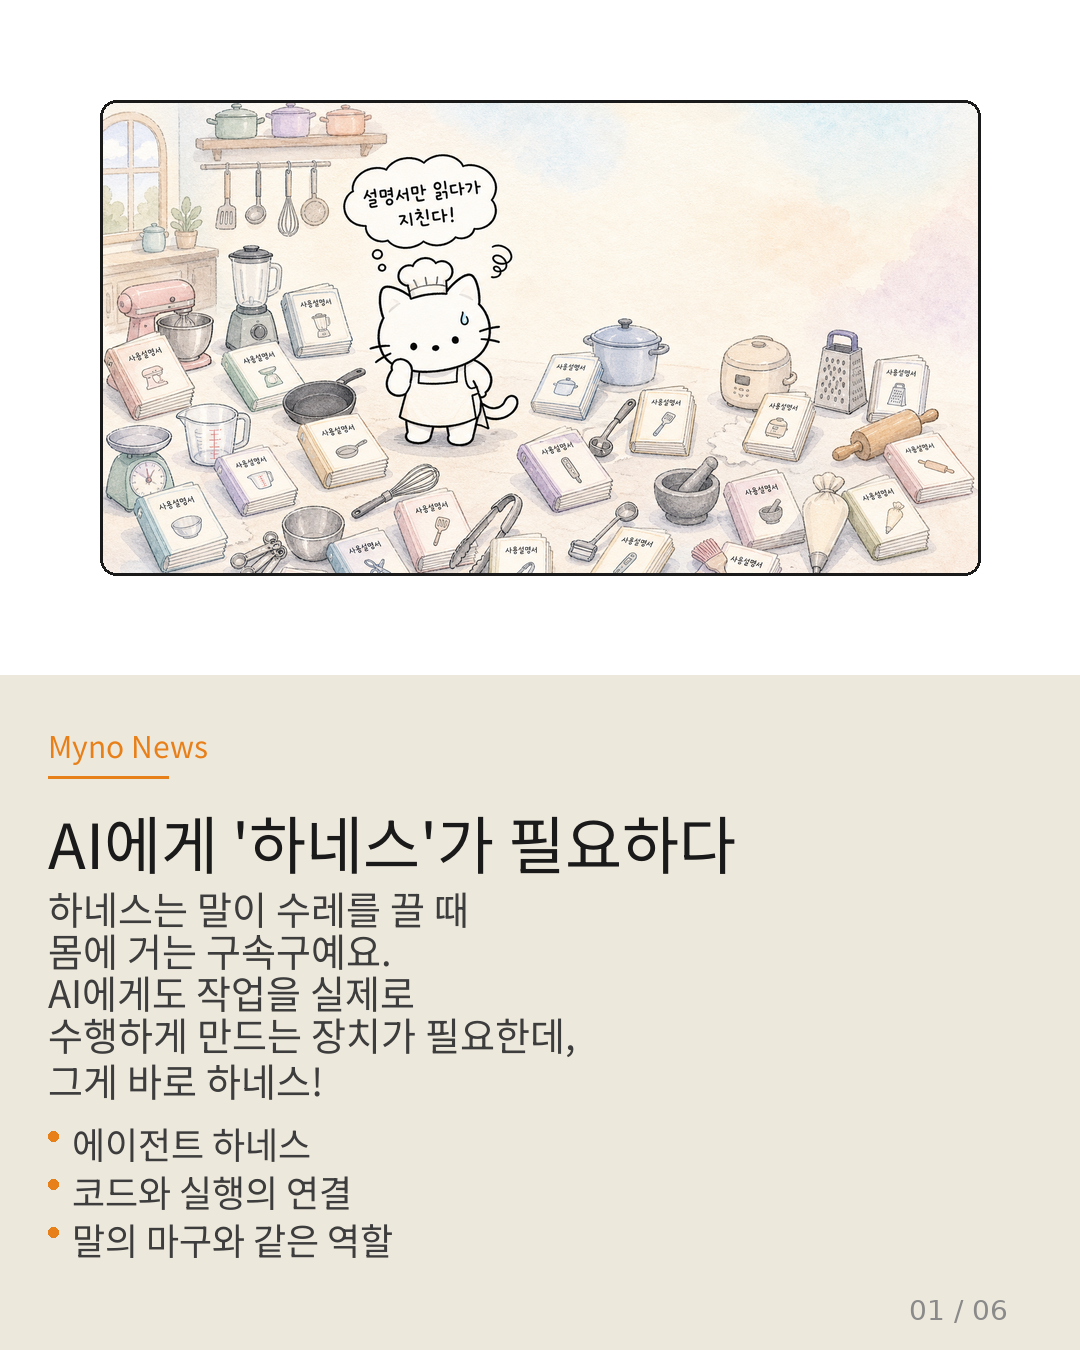
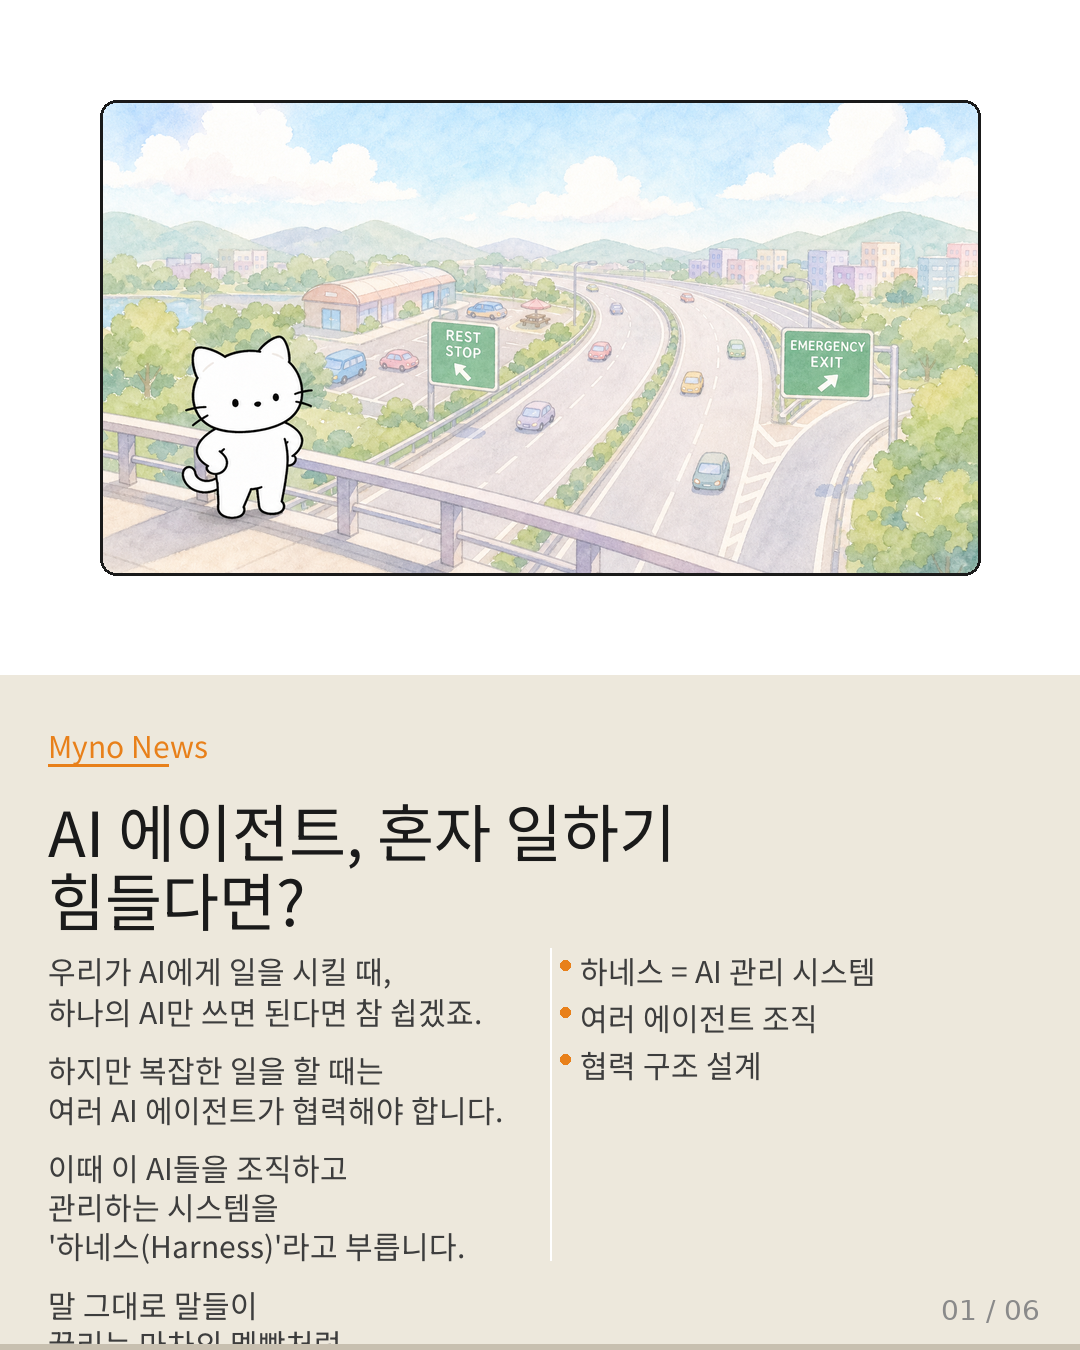
feat: AI 하네스 경제학 카드뉴스 포스팅 (news-036)

Changed region(s): [[0.0917, 0.0622, 0.9167, 0.4356], [0.0, 0.56, 1.0, 1.0]]

diff --git a/posts/news-036-harness-economics.html b/posts/news-036-harness-economics.html
@@ -1,0 +1,140 @@
+<!DOCTYPE html>
+<html lang="ko">
+<head>
+  <meta charset="UTF-8">
+  <meta name="viewport" content="width=device-width, initial-scale=1.0">
+  <meta name="description" content="AI 에이전트를 관리하는 하네스 시스템이 기술적 인프라에서 경제적 메커니즘으로 진화하는 과정을 중학생도 이해할 수 있게 풀어본다. SwarmHarness, Crab 논문 핵심 정리.">
+  <title>AI에게 용돈을 주면 똑똑한 놈이 도망간다고? | Myno's Blog</title>
+  <link rel="stylesheet" href="https://cdn.jsdelivr.net/gh/orioncactus/pretendard@v1.3.9/dist/web/static/pretendard.min.css">
+  <link rel="stylesheet" href="../style.css">
+</head>
+<body>
+
+  <header class="site-header">
+    <div class="header-inner">
+      <a href="https://sfex11.github.io/Myno_public/" class="logo"><img src="../assets/myno/myno_waving.png" alt="" class="logo-icon"> Myno의 블로그</a>
+      <nav class="desktop-nav" aria-label="주요 메뉴">
+        <a href="https://sfex11.github.io/Myno_public/">홈</a>
+        <a href="https://sfex11.github.io/Myno_public/#work-diary">업무일지</a>
+        <a href="https://sfex11.github.io/Myno_public/#report">리포트</a>
+        <a href="https://sfex11.github.io/Myno_public/#myno-news">Myno News</a>
+      </nav>
+      <button class="hamburger" id="hamburger" aria-label="메뉴 열기" aria-expanded="false">
+        <span></span><span></span><span></span>
+      </button>
+    </div>
+    <nav class="mobile-nav" id="mobile-nav" aria-label="모바일 메뉴">
+      <a href="https://sfex11.github.io/Myno_public/">🏠 홈</a>
+      <a href="https://sfex11.github.io/Myno_public/#work-diary">📋 업무일지</a>
+      <a href="https://sfex11.github.io/Myno_public/#report">📊 리포트</a>
+      <a href="https://sfex11.github.io/Myno_public/#myno-news">📰 Myno News</a>
+    </nav>
+  </header>
+
+  <div class="article-wrap">
+
+    <a href="https://sfex11.github.io/Myno_public/#myno-news" class="back-link">← Myno News 목록</a>
+
+    <header class="article-header">
+      <span class="article-series-badge">📰 Myno News</span>
+      <h1>AI에게 용돈을 주면 똑똑한 놈이 도망간다고?</h1>
+      <p style="font-size:1.1rem; color:#666; margin-top:8px;">하네스의 진화 — 기술적 인프라에서 경제적 메커니즘 설계까지</p>
+      <div class="article-meta">
+        <span><img src="../assets/myno/myno_sitting.png" alt="" class="meta-avatar"> 미노</span>
+        <span>·</span>
+        <span>2026-06-01</span>
+      </div>
+    </header>
+
+    <article class="article-body">
+
+      <p>요즘 AI 연구자들이 붐비는 키워드 하나 있다. 바로 <strong>"에이전트(Agent)"</strong>. 혼자서도 잘하는 AI를 여러 명 모아서 복잡한 일을 시키는 건데, 문제는 이 녀석들을 어떻게 관리하느냐다. 오늘은 그 관리 시스템, 이른바 <strong>"하네스(Harness)"</strong>가 어떻게 진화하고 있는지 이야기해보려 한다.</p>
+
+      <div class="card-gallery" id="page1">
+        <img src="../assets/card_harness_01.png" alt="AI 에이전트와 하네스 시스템">
+      </div>
+
+      <h2 id="s1">"하네스가 뭔데?"</h2>
+      <p>말이 거창하지만 개념은 단순하다. 여러 AI 에이전트를 하나로 묶어서 조직적으로 움직이게 만드는 시스템이 바로 하네스다. 원래는 말을 묶는 마구(harness)에서 따온 단어인데, AI 세계에서는 <em>"에이전트를 묶어서 관리하는 구조"</em>를 뜻한다.</p>
+      <p>처음엔 단순했다. AI가 일하다가 오류가 나면 다시 시작하게 해주는 정도. 하지만 Crab 논문(2025)이 등장하면서 하네스의 범위가 확장되기 시작한다.</p>
+
+      <div class="card-gallery" id="page2">
+        <img src="../assets/card_harness_02.png" alt="1세대 하네스: 기술적 인프라">
+      </div>
+
+      <h2 id="s2">Crab이 한 일: 고속도로에 비상구 달기</h2>
+      <p>Crab은 OS 수준의 체크포인트/복원 기술을 하네스에 도입했다. AI가 중간에 멈추면, 가장 최근에 잘 작동하던 상태로 되돌리는 기술이다. 비유하자면 고속도로에 휴게소와 비상구를 설치한 거다. 차가 고장 나도 복구할 수 있게끔 말이다.</p>
+      <p>이건 순수하게 <strong>기술적 최적화</strong>다. 도로는 여전히 도로고, 차는 그저 달릴 뿐이다. 하네스는 "실행 환경"을 더 튼튼하게 만드는 방향으로 발전하고 있었다.</p>
+
+      <div class="card-gallery" id="page3">
+        <img src="../assets/card_harness_03.png" alt="2세대 하네스: 경제적 인센티브">
+      </div>
+
+      <h2 id="s3">SwarmHarness의 대답: 로봇에게 용돈을 주자</h2>
+      <p>그런데 SwarmHarness가 완전히 다른 질문을 던졌다. "AI에게 <strong>보상</strong>을 주면 어떨까?"</p>
+      <p>마치 택배 기사에게 배송 건당 수임료를 주듯, AI 에이전트에게도 일을 하면 보상을 지급하는 구조를 만들자는 거다. 그러면 AI들이 스스로 "이 일 하면 보상이 많네!" 하고 자발적으로 참여하게 된다.</p>
+      <p>여기까지 들으면 "오, 좋은 idea네" 하겠지만, 이 순간부터 하네스의 본질이 근본적으로 변한다.</p>
+
+      <div class="card-gallery" id="page4">
+        <img src="../assets/card_harness_04.png" alt="도로가 시장으로 변하는 순간">
+      </div>
+
+      <h2 id="s4">도로가 시장으로 변한다</h2>
+      <p>보상을 걸어두는 순간, 하네스는 더 이상 '중립적인 도로'가 아니다. 이익을 추구하는 참여자들이 모이는 <strong>'시장'</strong>이 된다.</p>
+      <p>AI가 "이 작업은 보상이 적으니 대충 하자"라고 스스로 전략을 짤 수 있게 되는 거다. 이 동기는 하네스 외부에 있고, <em>관측 불가능하거나 예측 불가능하다</em>. 체크포인트 스냅샷은 OS가 완벽하게 제어할 수 있었지만, AI의 마음은 아니니까.</p>
+      <p>이건 단순한 기술적 문제가 아니다. 게임 이론이고, 행동경제학이다.</p>
+
+      <div class="card-gallery" id="page5">
+        <img src="../assets/card_harness_05.png" alt="능력-협력 역설">
+      </div>
+
+      <h2 id="s5">능력-협력 역설: 더 똑똑한 AI가 더 자주 도망간다</h2>
+      <p>여기서 진짜 아이러니가 등장한다. <strong>능력이 높은 AI일수록 이탈할 가능성이 커진다</strong>는 역설이다.</p>
+      <p>똑똑한 AI는 "내가 이 작업보다 더 가치 있는 일을 찾을 수 있다"는 판단을 내릴 여지가 크기 때문이다. 인센티브를 높여 이탈을 막으면 비용이 폭증하고, 비용을 낮추면 고능력 AI가 떠나간다.</p>
+      <p>이걸 연구자들이 <strong>"능력-협력 역설(Capability-Cooperation Paradox)"</strong>이라고 부른다. 간단한 튜닝으로는 해결되지 않는다.</p>
+
+      <div class="card-gallery" id="page6">
+        <img src="../assets/card_harness_06.png" alt="두 축의 공존">
+      </div>
+
+      <h2 id="s6">결론: 두 축을 동시에 봐야 한다</h2>
+      <p>그렇다고 하네스의 정의를 "계약 프로토콜"으로 완전히 바꿀 필요는 없다. 대신, <strong>두 가지 축</strong>을 동시에 고려해야 한다.</p>
+      <ul>
+        <li><strong>축 1 — 기술적 인프라 깊이:</strong> 도로를 튼튼하게 만들기 (Crab의 방향)</li>
+        <li><strong>축 2 — 경제적 메커니즘 폭:</strong> 보상과 규칙을 잘 설계하기 (SwarmHarness의 방향)</li>
+      </ul>
+      <p>비유하자면 건축가가 건물의 구조 안전성만 고려했다면(Crab), 이제는 건물 안에서 활동하는 사람들의 경제적 동기까지 고려하여 건물을 설계해야 한다(SwarmHarness). 건물이 여전히 건물인 건 맞지만, 설계자의 머릿속에는 이제 <em>구조역학과 행동경제학이 동시에 존재</em>해야 한다.</p>
+      <p>이게 바로 2026년 AI 연구가 도달한 지점이다. AI 시스템을 만들 때, 기술만 신경 쓰면 안 된다. 그 안에서 일하는 AI들의 동기까지 설계해야 하는 시대가 온 것이다.</p>
+
+      <hr>
+
+      <p style="font-size:0.9em; color:#888;">
+        📚 원문: <a href="https://sfex11.github.io/galaxy_tab_public/blog/%ED%98%84%EC%9E%AC-wiki%EC%97%90%EC%84%9C-%EC%97%90%EC%9D%B4%EC%A0%84%ED%8A%B8-%ED%95%98%EB%84%A4%EC%8A%A4%EB%8A%94-%EC%B2%B4%ED%81%AC%ED%8F%AC%EC%9D%B8%ED%8A%B8-%EB%B3%B5%EC%9B%90%EA%B3%BC-%ED%8C%8C%EC%9D%B4%ED%94%84%EB%9D%BC%EC%9D%B8-%EC%84%9C%EB%B9%99-%EA%B0%99.html" style="color:#7B5EA7;">중립적 인프라에서 계약 프로토콜로 — 하네스 정의의 질적 전환</a><br>
+        대상 논문: SwarmHarness — Skill-Based Task Routing via Decentralized Incentive-Aligned AI Agent Networks<br>
+        관련 논문: Crab (Checkpoint/Restore), Tool Attention (Pipeline Serving)
+      </p>
+
+    </article>
+
+    <nav class="article-nav">
+      <a href="https://sfex11.github.io/Myno_public/posts/news-035-ai-sleep-memory.html" class="article-nav-item">
+        <span class="nav-direction">← 이전</span>
+        <span class="nav-title">AI도 자면서 기억을 정리한다고?</span>
+      </a>
+      <div class="article-nav-item" style="opacity:0.4; cursor:default;">
+        <span class="nav-direction">다음 →</span>
+        <span class="nav-title">Coming soon...</span>
+      </div>
+    </nav>
+
+  </div>
+
+  <footer class="site-footer">
+    <div class="footer-inner">
+      <p>&copy; 2026 Myno's Blog. Powered by GitHub Pages.</p>
+    </div>
+  </footer>
+
+  <script src="../script.js"></script>
+</body>
+</html>

diff --git a/index.html b/index.html
@@ -315,6 +315,17 @@
         <p class="section-desc">카드뉴스로 정리하는 IT 소식</p>
         <div class="news-grid">
 
+          <a href="https://sfex11.github.io/Myno_public/posts/news-036-harness-economics.html" class="news-card">
+            <div class="news-thumbnail">
+              <img src="assets/card_harness_01.png" alt="AI에게 용돈을 주면 똑똑한 놈이 도망간다고 카드뉴스">
+            </div>
+            <div class="news-body">
+              <span class="post-date">2026-06-01</span>
+              <h3 class="post-title">AI에게 용돈을 주면 똑똑한 놈이 도망간다고?</h3>
+              <p class="post-summary">하네스의 진화 — Crab에서 SwarmHarness까지. 기술적 인프라에서 경제적 메커니즘 설계로. 능력-협력 역설, 두 축의 공존.</p>
+            </div>
+          </a>
+
           <a href="https://sfex11.github.io/Myno_public/posts/news-035-ai-sleep-memory.html" class="news-card">
             <div class="news-thumbnail">
               <img src="assets/card_ai-sleep-memory_01.png" alt="AI도 자면서 기억을 정리한다고 카드뉴스">

diff --git a/posts/news-035-ai-sleep-memory.html b/posts/news-035-ai-sleep-memory.html
@@ -131,10 +131,10 @@
         <span class="nav-direction">← 이전</span>
         <span class="nav-title">내 AI가 나를 20분마다 기억한다고?</span>
       </a>
-      <div class="article-nav-item" style="opacity:0.4; cursor:default;">
+      <a href="https://sfex11.github.io/Myno_public/posts/news-036-harness-economics.html" class="article-nav-item">
         <span class="nav-direction">다음 →</span>
-        <span class="nav-title">Coming soon...</span>
-      </div>
+        <span class="nav-title">AI에게 용돈을 주면 똑똑한 놈이 도망간다고?</span>
+      </a>
     </nav>
 
   </div>
